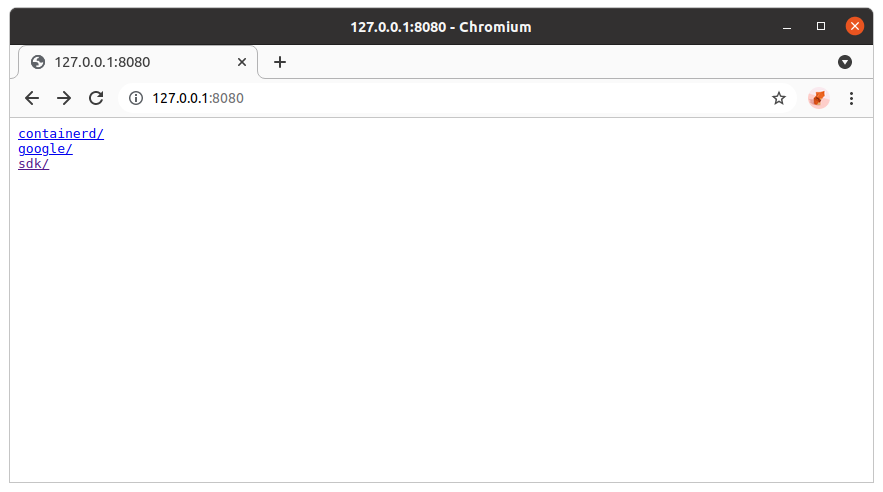
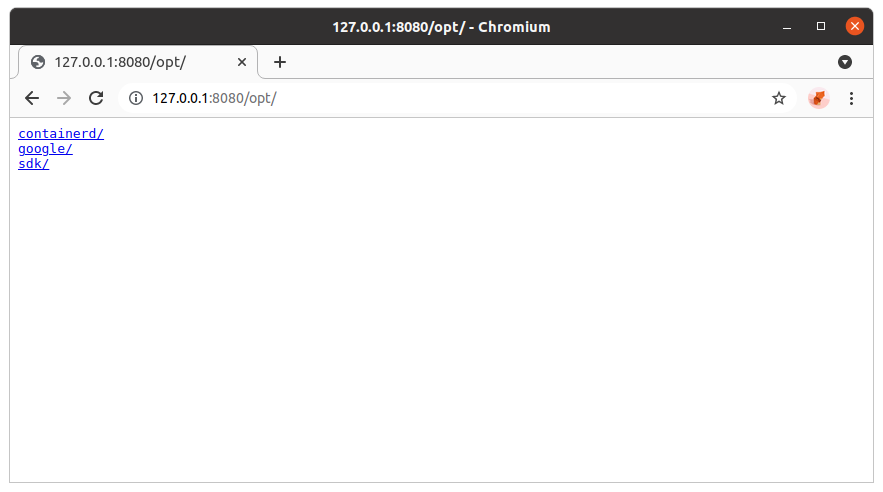
docs: update README.md

diff --git a/README.md b/README.md
@@ -48,7 +48,7 @@ Start up GoFS.
 sudo ./GoFS-Linux-amd64 -a 127.0.0.1:8080 -p /opt
 ```
 
-Access [http://127.0.0.1:8080](http://127.0.0.1:8080) in your browser.
+Access [http://127.0.0.1:8080/opt/](http://127.0.0.1:8080/opt/) in your browser.
 
 ![img/browser-127.0.0.1.png](img/browser-127.0.0.1.png)
 
